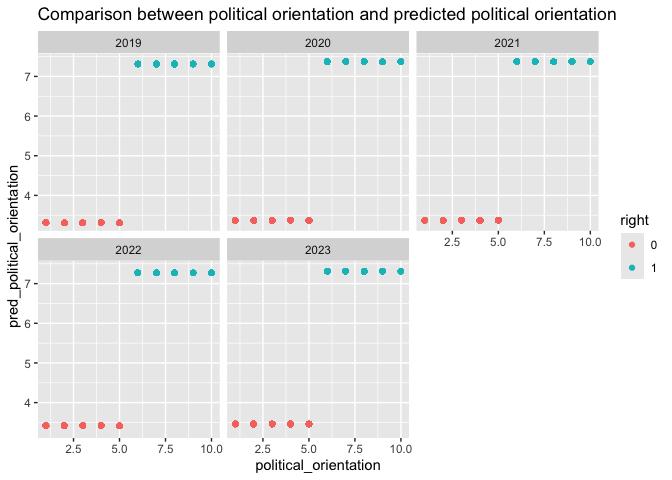
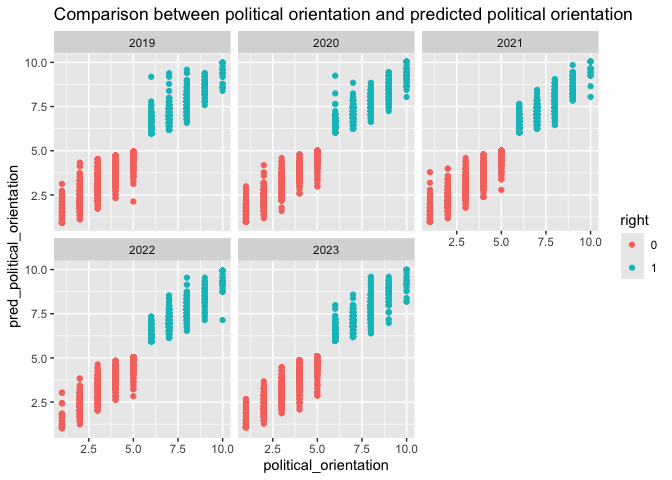
cor fixed effects indv

diff --git a/rfile/Diff_in_diff.md b/rfile/Diff_in_diff.md
@@ -119,30 +119,30 @@ panel19_23_stacked %>%
 Now we estimate the first stage of our dif-in-dif model
 
 ``` r
-dd_reg <- felm(political_orientation ~ treatment_z | survey_year + right, data=panel19_23_stacked)
+dd_reg <- felm(political_orientation ~ treatment_z | survey_year + nomem_encr, data=panel19_23_stacked)
 
 summary(dd_reg)
 ```
 
     ## 
     ## Call:
-    ##    felm(formula = political_orientation ~ treatment_z | survey_year +      right, data = panel19_23_stacked) 
+    ##    felm(formula = political_orientation ~ treatment_z | survey_year +      nomem_encr, data = panel19_23_stacked) 
     ## 
     ## Residuals:
     ##     Min      1Q  Median      3Q     Max 
-    ## -2.4614 -0.4614 -0.3103  0.6865  2.7304 
+    ## -3.2435 -0.2752  0.0144  0.2759  2.8759 
     ## 
     ## Coefficients:
-    ##             Estimate Std. Error t value Pr(>|t|)   
-    ## treatment_z  0.15218    0.04897   3.108  0.00189 **
+    ##             Estimate Std. Error t value Pr(>|t|)    
+    ## treatment_z  0.15218    0.02666   5.708  1.2e-08 ***
     ## ---
     ## Signif. codes:  0 '***' 0.001 '**' 0.01 '*' 0.05 '.' 0.1 ' ' 1
     ## 
-    ## Residual standard error: 1.091 on 8283 degrees of freedom
-    ## Multiple R-squared(full model): 0.7654   Adjusted R-squared: 0.7652 
-    ## Multiple R-squared(proj model): 0.001165   Adjusted R-squared: 0.0004411 
-    ## F-statistic(full model): 4503 on 6 and 8283 DF, p-value: < 2.2e-16 
-    ## F-statistic(proj model): 9.658 on 1 and 8283 DF, p-value: 0.001892
+    ## Residual standard error: 0.5941 on 6627 degrees of freedom
+    ## Multiple R-squared(full model): 0.9443   Adjusted R-squared: 0.9304 
+    ## Multiple R-squared(proj model): 0.004892   Adjusted R-squared: -0.2447 
+    ## F-statistic(full model):67.66 on 1662 and 6627 DF, p-value: < 2.2e-16 
+    ## F-statistic(proj model): 32.58 on 1 and 6627 DF, p-value: 1.196e-08
 
 We can see that it seems that the treatment coefficient is highly
 significant. We’d have to run a parallel trends regression to see if the
@@ -164,7 +164,7 @@ ATT_1_CI_upper_boundary = abs(main_ATT_1 + qnorm(0.975)*summary(dd_reg)$coeffici
 c(main_ATT_1, ATT_1_CI_lower_boundary, ATT_1_CI_upper_boundary)
 ```
 
-    ## [1] 0.15218437 0.05620435 0.24816440
+    ## [1] 0.15218437 0.09992452 0.20444422
 
 For the second stage of our two-stage least-squares (TSLS) we need to
 store the predicted values of political orientation from the first stage
@@ -203,28 +203,28 @@ For the second stage, we regress the outcome (propensity to vote) on the
 predicted political orientation, with fixed effects.
 
 ``` r
-dd_reg_2 <- felm(propensity_to_vote ~ pred_political_orientation | survey_year + right, data=panel19_23_stacked)
+dd_reg_2 <- felm(propensity_to_vote ~ pred_political_orientation | survey_year + nomem_encr, data=panel19_23_stacked)
 
 summary(dd_reg_2)
 ```
 
     ## 
     ## Call:
-    ##    felm(formula = propensity_to_vote ~ pred_political_orientation |      survey_year + right, data = panel19_23_stacked) 
+    ##    felm(formula = propensity_to_vote ~ pred_political_orientation |      survey_year + nomem_encr, data = panel19_23_stacked) 
     ## 
     ## Residuals:
     ##     Min      1Q  Median      3Q     Max 
-    ## -93.767   4.233   6.020   6.550   6.875 
+    ## -76.035  -0.673   0.180   1.180  55.821 
     ## 
     ## Coefficients:
     ##                            Estimate Std. Error t value Pr(>|t|)
-    ## pred_political_orientation  -0.9824     4.5764  -0.215     0.83
+    ## pred_political_orientation  -0.9824     3.2642  -0.301    0.763
     ## 
-    ## Residual standard error: 15.52 on 8283 degrees of freedom
-    ## Multiple R-squared(full model): 0.0009614   Adjusted R-squared: 0.0002377 
-    ## Multiple R-squared(proj model): 5.563e-06   Adjusted R-squared: -0.0007188 
-    ## F-statistic(full model):1.329 on 6 and 8283 DF, p-value: 0.2404 
-    ## F-statistic(proj model): 0.04608 on 1 and 8283 DF, p-value: 0.83
+    ## Residual standard error: 11.07 on 6627 degrees of freedom
+    ## Multiple R-squared(full model): 0.5934   Adjusted R-squared: 0.4914 
+    ## Multiple R-squared(proj model): 1.367e-05   Adjusted R-squared: -0.2508 
+    ## F-statistic(full model):5.818 on 1662 and 6627 DF, p-value: < 2.2e-16 
+    ## F-statistic(proj model): 0.09057 on 1 and 6627 DF, p-value: 0.7635
 
 Our LATE estimand is highly insignificant. We store the estimated values
 and confidence intervals.
@@ -239,7 +239,7 @@ LATE_CI_upper_boundary = abs(LATE + qnorm(0.975)*summary(dd_reg_2)$coefficients[
 c(LATE, LATE_CI_lower_boundary, LATE_CI_upper_boundary)
 ```
 
-    ## [1] -0.9823815  9.9519679  7.9872049
+    ## [1] -0.9823815  7.3800949  5.4153319
 
 ## Standard OLS estimation
 
@@ -263,7 +263,7 @@ library(fixest)
 
 ``` r
 ols_reg <- feols(
-  propensity_to_vote ~ political_orientation + treatment_z + political_orientation*treatment_z, # Regression formula
+  propensity_to_vote ~ political_orientation, # Regression formula
   data=panel19_23_stacked,
   vcov = "hc1" #--variance-covariance ratio, hc=heterochedasticity-consistent
 )
@@ -274,14 +274,12 @@ summary(ols_reg)
     ## OLS estimation, Dep. Var.: propensity_to_vote
     ## Observations: 8,290
     ## Standard-errors: Heteroskedasticity-robust 
-    ##                                    Estimate Std. Error   t value   Pr(>|t|)    
-    ## (Intercept)                       95.372574   0.458465 208.02590  < 2.2e-16 ***
-    ## political_orientation             -0.287696   0.076375  -3.76688 1.6645e-04 ***
-    ## treatment_z                        6.064284   1.152067   5.26383 1.4462e-07 ***
-    ## political_orientation:treatment_z -1.927416   0.341316  -5.64701 1.6865e-08 ***
+    ##                        Estimate Std. Error   t value  Pr(>|t|)    
+    ## (Intercept)           95.615966   0.375839 254.40696 < 2.2e-16 ***
+    ## political_orientation -0.356325   0.067875  -5.24973 1.561e-07 ***
     ## ---
     ## Signif. codes:  0 '***' 0.001 '**' 0.01 '*' 0.05 '.' 0.1 ' ' 1
-    ## RMSE: 15.5   Adj. R2: 0.00695
+    ## RMSE: 15.5   Adj. R2: 0.002553
 
 Here we obtain a negative and significant coefficient. Increasing
 political orientation by one unit (moving to the right) is associated
